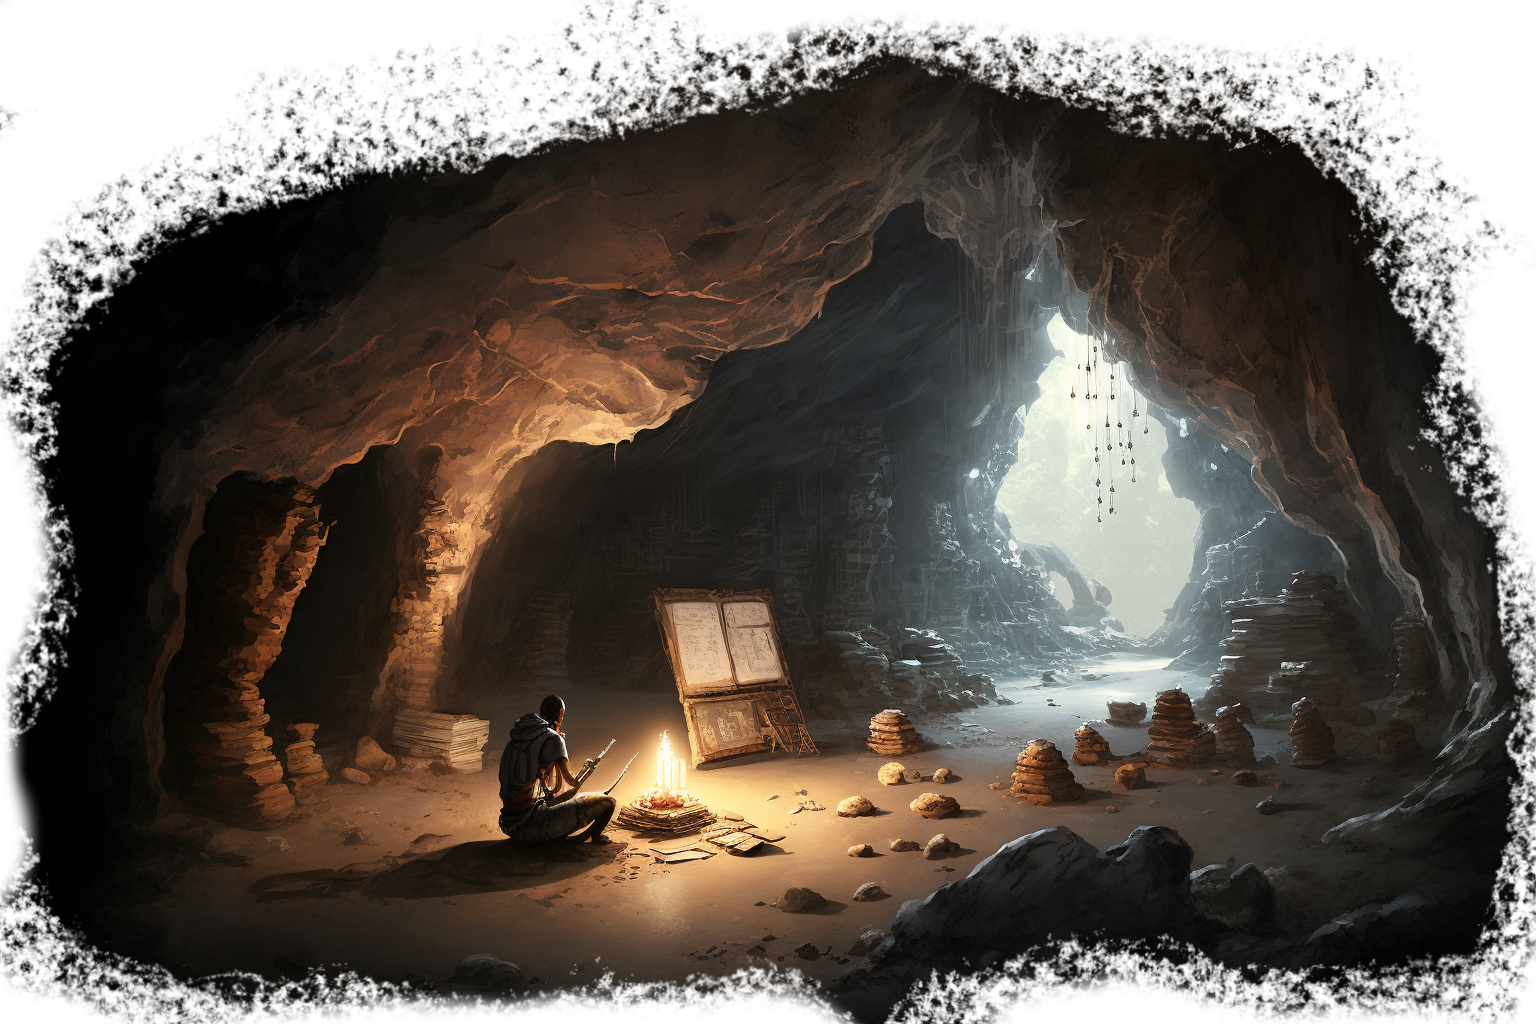
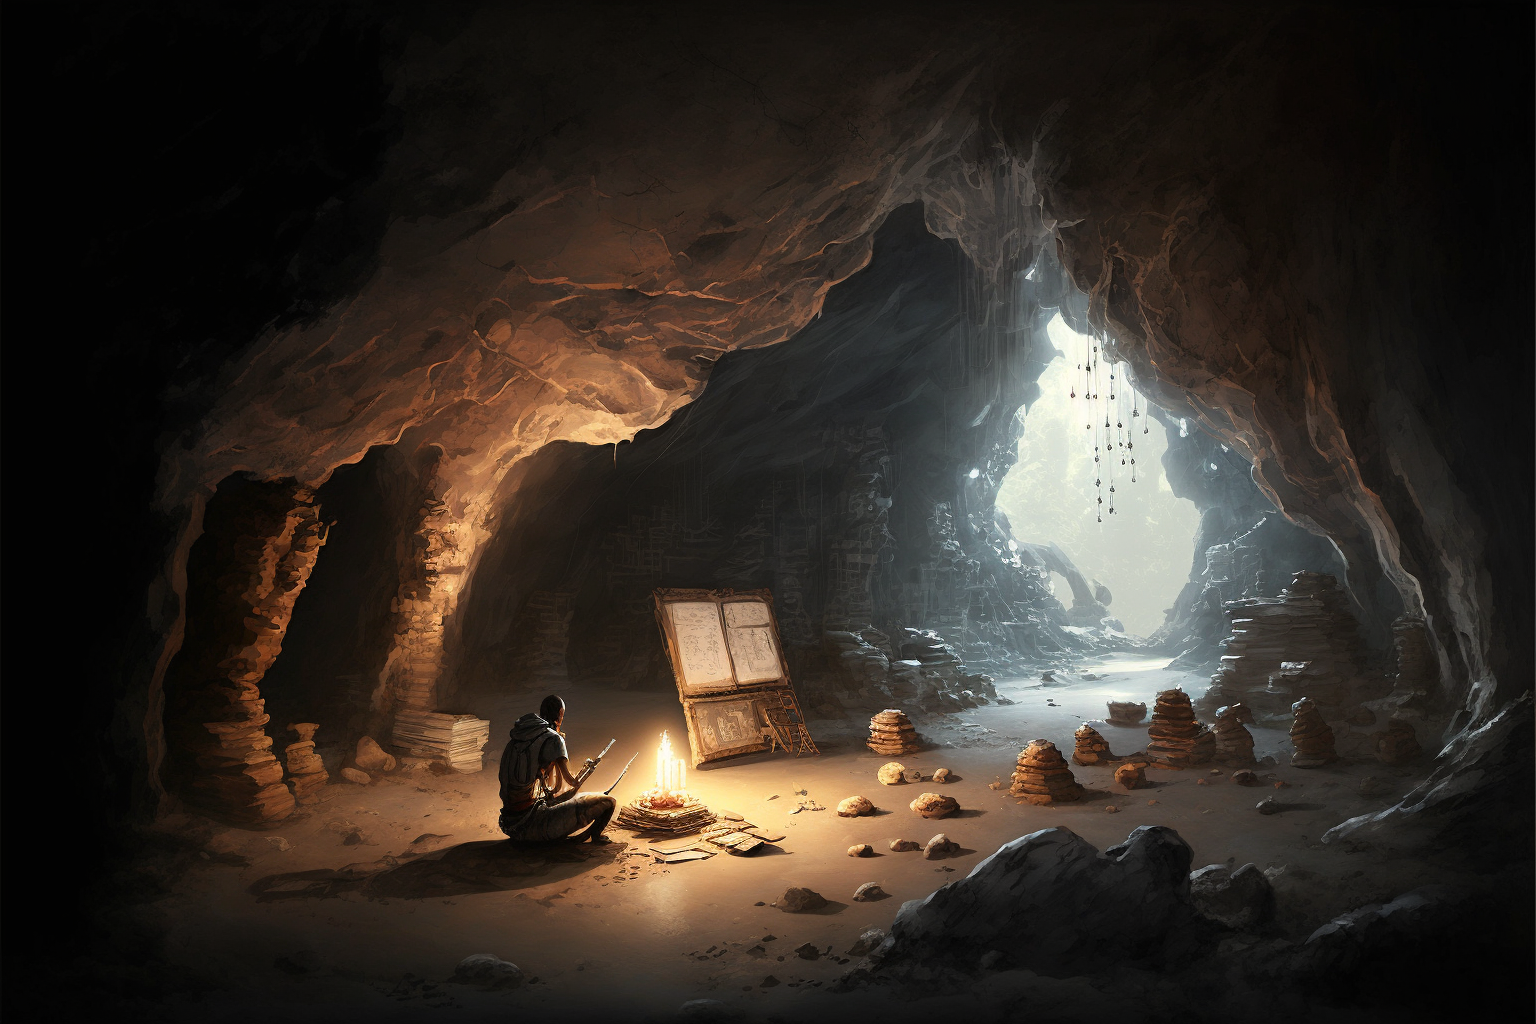
Cropped/uncropped image versions

Changed region(s): [[0.0, 0.0, 1.0, 1.0]]

diff --git a/src/pages-sections/Services/Services.tsx b/src/pages-sections/Services/Services.tsx
@@ -1,6 +1,6 @@
-import { CaveOfIdeasInLightbulbWithTransparentLookThrImageXd3273ad0 } from '../../../public/wallpapers/Pavol_Hejn_cave_of_ideas_in_lightbulb_with_transparent_look_thr_d3273ad0-097f-4011-b799-1c379bb05ee3';
-import { CaveWithPresentationImageXdec31ff2 } from '../../../public/wallpapers/Pavol_Hejn_cave_with_presentation_dec31ff2-3b9d-42b9-b84f-f87d02d6a391';
-import { CaveWithPrototypingLaboratoryImageXca9b82b9 } from '../../../public/wallpapers/Pavol_Hejn_cave_with_prototyping_laboratory_ca9b82b9-0ded-44a3-b7ec-344ebb539439';
+import { CaveOfIdeasInLightbulbWithTransparentLookThrD3273ad0097f4011B7991c379bb05ee3ImageXcropped } from '../../../public/wallpapers/Pavol_Hejn_cave_of_ideas_in_lightbulb_with_transparent_look_thr_d3273ad0-097f-4011-b799-1c379bb05ee3_cropped_AsImage';
+import { CaveWithPresentationDec31ff23b9d42b9B84fF87d02d6a391ImageXcropped } from '../../../public/wallpapers/Pavol_Hejn_cave_with_presentation_dec31ff2-3b9d-42b9-b84f-f87d02d6a391_cropped_AsImage';
+import { CaveWithPrototypingLaboratoryCa9b82b90ded44a3B7ec344ebb539439ImageXcropped } from '../../../public/wallpapers/Pavol_Hejn_cave_with_prototyping_laboratory_ca9b82b9-0ded-44a3-b7ec-344ebb539439_cropped_AsImage';
 import { Item } from '../../components/Items/Item';
 import { Items } from '../../components/Items/Items';
 import { Section } from '../../components/Section/Section';
@@ -20,40 +20,40 @@ export function Services() {
 
                 <a href="#contact">
                     <Item>
-                        <Item.Title>Consulting</Item.Title>
+                        <Item.Title>Consult</Item.Title>
                         <Item.Description>
                             I offer expert advice on various technologies, providing {/*insightful*/} analysis of their
                             benefits and limitations to help you make decisions.
                         </Item.Description>
                         <Item.Image>
-                            <CaveOfIdeasInLightbulbWithTransparentLookThrImageXd3273ad0 />
+                            <CaveOfIdeasInLightbulbWithTransparentLookThrD3273ad0097f4011B7991c379bb05ee3ImageXcropped />
                         </Item.Image>
                     </Item>
                 </a>
 
                 <a href="#contact">
                     <Item>
-                        <Item.Title>Speaking</Item.Title>
+                        <Item.Title>Talk</Item.Title>
                         <Item.Description>
                             I provide overviews of various technologies, highlighting their{' '}
                             <span style={{ color: '#11ff11' }}>pros</span> and{' '}
                             <span style={{ color: '#ff0000' }}>cons</span> to ensure a well-rounded understanding.
                         </Item.Description>
                         <Item.Image>
-                            <CaveWithPresentationImageXdec31ff2 />
+                            <CaveWithPresentationDec31ff23b9d42b9B84fF87d02d6a391ImageXcropped />
                         </Item.Image>
                     </Item>
                 </a>
 
                 <a href="#contact">
                     <Item>
-                        <Item.Title>Prototyping</Item.Title>
+                        <Item.Title>Prototype</Item.Title>
                         <Item.Description>
                             I will bring your new project into the reality through effective prototyping and seamless
                             transition from concept to implementation.
                         </Item.Description>
                         <Item.Image>
-                            <CaveWithPrototypingLaboratoryImageXca9b82b9 />
+                            <CaveWithPrototypingLaboratoryCa9b82b90ded44a3B7ec344ebb539439ImageXcropped />
                         </Item.Image>
                     </Item>
                 </a>

diff --git a/src/pages/gallery.tsx b/src/pages/gallery.tsx
@@ -63,7 +63,7 @@ export default function Midjourney() {
                                     <CaveOfIdeasInLightbulbWithTransparentLookThrImageXd3273ad0 />
                                 </Item.Image>
                                 <Item.Description> AA</Item.Description>
-                            </Item>{' '}
+                            </Item>
                         </Link>
                         <Link
                             className={styles.galleryItem}
@@ -71,7 +71,12 @@ export default function Midjourney() {
                             target="_blank"
                             // TODO: Is rel="noreferrer" added here
                         >
-                            <CaveWithPresentationImageXdec31ff2 />
+                            <Item>
+                                <Item.Image>
+                                    <CaveWithPresentationImageXdec31ff2 />
+                                </Item.Image>
+                                <Item.Description> AA</Item.Description>
+                            </Item>
                         </Link>
                         <Link
                             className={styles.galleryItem}
@@ -79,7 +84,12 @@ export default function Midjourney() {
                             target="_blank"
                             // TODO: Is rel="noreferrer" added here
                         >
-                            <CaveWithPrototypingLaboratoryImageXca9b82b9 />
+                            <Item>
+                                <Item.Image>
+                                    <CaveWithPrototypingLaboratoryImageXca9b82b9 />
+                                </Item.Image>
+                                <Item.Description> AA</Item.Description>
+                            </Item>
                         </Link>
                     </Items>
                 </main>
@@ -93,13 +103,9 @@ export default function Midjourney() {
 
 /**
  * TODO: Make some menu
- * TODO: Link to main homepage
- * TODO: Fix Aspect
- * TODO: Better URL than /gallery
- * TODO: Generate the components like <CaveOfIdeasWithTransparentLookThroughImageXfe3480c5 /> with links
+ * TODO: !!! Link to main homepage
  * TODO: [🧈] Best way how to share page css
- * TODO: !! Make the page
- *        <a href=" https://www.midjourney.com/app/jobs/fe3480c5-76af-45da-ac4e-5177062bcb6b">*MidJourney</a>
  * TODO: DRY with index.tsx
- * TODO: ACRY should we use <a OR <Link
+ * TODO: [🔗] ACRY should we use <a ...>...</a> OR <Link ...>...</Link> for external links in Next App
+ * TODO: Generate the components like <CaveOfIdeasWithTransparentLookThroughImageXfe3480c5 /> with links
  */

diff --git a/public/wallpapers/Pavol_Hejn_cave_of_ideas_in_lightbulb_with_transparent_look_thr_d3273ad0-097f-4011-b799-1c379bb05ee3_cropped_AsImage.tsx b/public/wallpapers/Pavol_Hejn_cave_of_ideas_in_lightbulb_with_transparent_look_thr_d3273ad0-097f-4011-b799-1c379bb05ee3_cropped_AsImage.tsx
@@ -1,0 +1,27 @@
+/**
+ * 🏭 GENERATED WITH 🖼 Generate wallpapers library
+ * ⚠ Warning: Do not edit by hand, all changes will be lost on next execution!
+ *    If you want to edit this file:
+ *      - Change @generated to @not-generated
+ *      - And remove this warning
+ *    Then the file will not be re-generated automatically
+ */
+
+import Image from 'next/image';
+import cave_of_ideas_in_lightbulb_with_transparent_look_thr_d3273ad0_097f_4011_b799_1c379bb05ee3_cropped from './Pavol_Hejn_cave_of_ideas_in_lightbulb_with_transparent_look_thr_d3273ad0-097f-4011-b799-1c379bb05ee3_cropped.png';
+
+/**
+ * Image of cave of ideas in lightbulb with transparent look thr d3273ad0-097f-4011-b799-1c379bb05ee3
+ *
+ * @see https://www.midjourney.com/app/jobs/cropped
+ * @generated by generate-wallpapers-library
+ */
+export function CaveOfIdeasInLightbulbWithTransparentLookThrD3273ad0097f4011B7991c379bb05ee3ImageXcropped() {
+    return (
+        <Image
+            alt="cave of ideas in lightbulb with transparent look thr d3273ad0-097f-4011-b799-1c379bb05ee3"
+            src={cave_of_ideas_in_lightbulb_with_transparent_look_thr_d3273ad0_097f_4011_b799_1c379bb05ee3_cropped}
+            draggable="false"
+        />
+    );
+}

diff --git a/public/wallpapers/Pavol_Hejn_cave_with_prototyping_laboratory_ca9b82b9-0ded-44a3-b7ec-344ebb539439_cropped_AsImage.tsx b/public/wallpapers/Pavol_Hejn_cave_with_prototyping_laboratory_ca9b82b9-0ded-44a3-b7ec-344ebb539439_cropped_AsImage.tsx
@@ -1,0 +1,27 @@
+/**
+ * 🏭 GENERATED WITH 🖼 Generate wallpapers library
+ * ⚠ Warning: Do not edit by hand, all changes will be lost on next execution!
+ *    If you want to edit this file:
+ *      - Change @generated to @not-generated
+ *      - And remove this warning
+ *    Then the file will not be re-generated automatically
+ */
+
+import Image from 'next/image';
+import cave_with_prototyping_laboratory_ca9b82b9_0ded_44a3_b7ec_344ebb539439_cropped from './Pavol_Hejn_cave_with_prototyping_laboratory_ca9b82b9-0ded-44a3-b7ec-344ebb539439_cropped.png';
+
+/**
+ * Image of cave with prototyping laboratory ca9b82b9-0ded-44a3-b7ec-344ebb539439
+ *
+ * @see https://www.midjourney.com/app/jobs/cropped
+ * @generated by generate-wallpapers-library
+ */
+export function CaveWithPrototypingLaboratoryCa9b82b90ded44a3B7ec344ebb539439ImageXcropped() {
+    return (
+        <Image
+            alt="cave with prototyping laboratory ca9b82b9-0ded-44a3-b7ec-344ebb539439"
+            src={cave_with_prototyping_laboratory_ca9b82b9_0ded_44a3_b7ec_344ebb539439_cropped}
+            draggable="false"
+        />
+    );
+}

diff --git a/public/wallpapers/Pavol_Hejn_cave_with_presentation_dec31ff2-3b9d-42b9-b84f-f87d02d6a391_cropped_AsImage.tsx b/public/wallpapers/Pavol_Hejn_cave_with_presentation_dec31ff2-3b9d-42b9-b84f-f87d02d6a391_cropped_AsImage.tsx
@@ -1,0 +1,27 @@
+/**
+ * 🏭 GENERATED WITH 🖼 Generate wallpapers library
+ * ⚠ Warning: Do not edit by hand, all changes will be lost on next execution!
+ *    If you want to edit this file:
+ *      - Change @generated to @not-generated
+ *      - And remove this warning
+ *    Then the file will not be re-generated automatically
+ */
+
+import Image from 'next/image';
+import cave_with_presentation_dec31ff2_3b9d_42b9_b84f_f87d02d6a391_cropped from './Pavol_Hejn_cave_with_presentation_dec31ff2-3b9d-42b9-b84f-f87d02d6a391_cropped.png';
+
+/**
+ * Image of cave with presentation dec31ff2-3b9d-42b9-b84f-f87d02d6a391
+ *
+ * @see https://www.midjourney.com/app/jobs/cropped
+ * @generated by generate-wallpapers-library
+ */
+export function CaveWithPresentationDec31ff23b9d42b9B84fF87d02d6a391ImageXcropped() {
+    return (
+        <Image
+            alt="cave with presentation dec31ff2-3b9d-42b9-b84f-f87d02d6a391"
+            src={cave_with_presentation_dec31ff2_3b9d_42b9_b84f_f87d02d6a391_cropped}
+            draggable="false"
+        />
+    );
+}

diff --git a/src/pages/contact.tsx b/src/pages/contact.tsx
@@ -48,13 +48,9 @@ export default function ContactPage() {
 
 /**
  * TODO: Make some menu
- * TODO: Link to main homepage
- * TODO: Fix Aspect
- * TODO: Better URL than /gallery
- * TODO: Generate the components like <CaveOfIdeasWithTransparentLookThroughImageXfe3480c5 /> with links
+ * TODO: !!! Link to main homepage
  * TODO: [🧈] Best way how to share page css
  * TODO: !! Make the page
  *        <a href=" https://www.midjourney.com/app/jobs/fe3480c5-76af-45da-ac4e-5177062bcb6b">*MidJourney</a>
  * TODO: DRY with index.tsx
- * TODO: ACRY should we use <a OR <Link
  */

diff --git a/src/pages-sections/Contact/Contact.tsx b/src/pages-sections/Contact/Contact.tsx
@@ -39,3 +39,7 @@ export function Contact() {
         </Section>
     );
 }
+
+/**
+ * TODO: [🔗] ACRY should we use <a ...>...</a> OR <Link ...>...</Link> for external links in Next App
+ */
